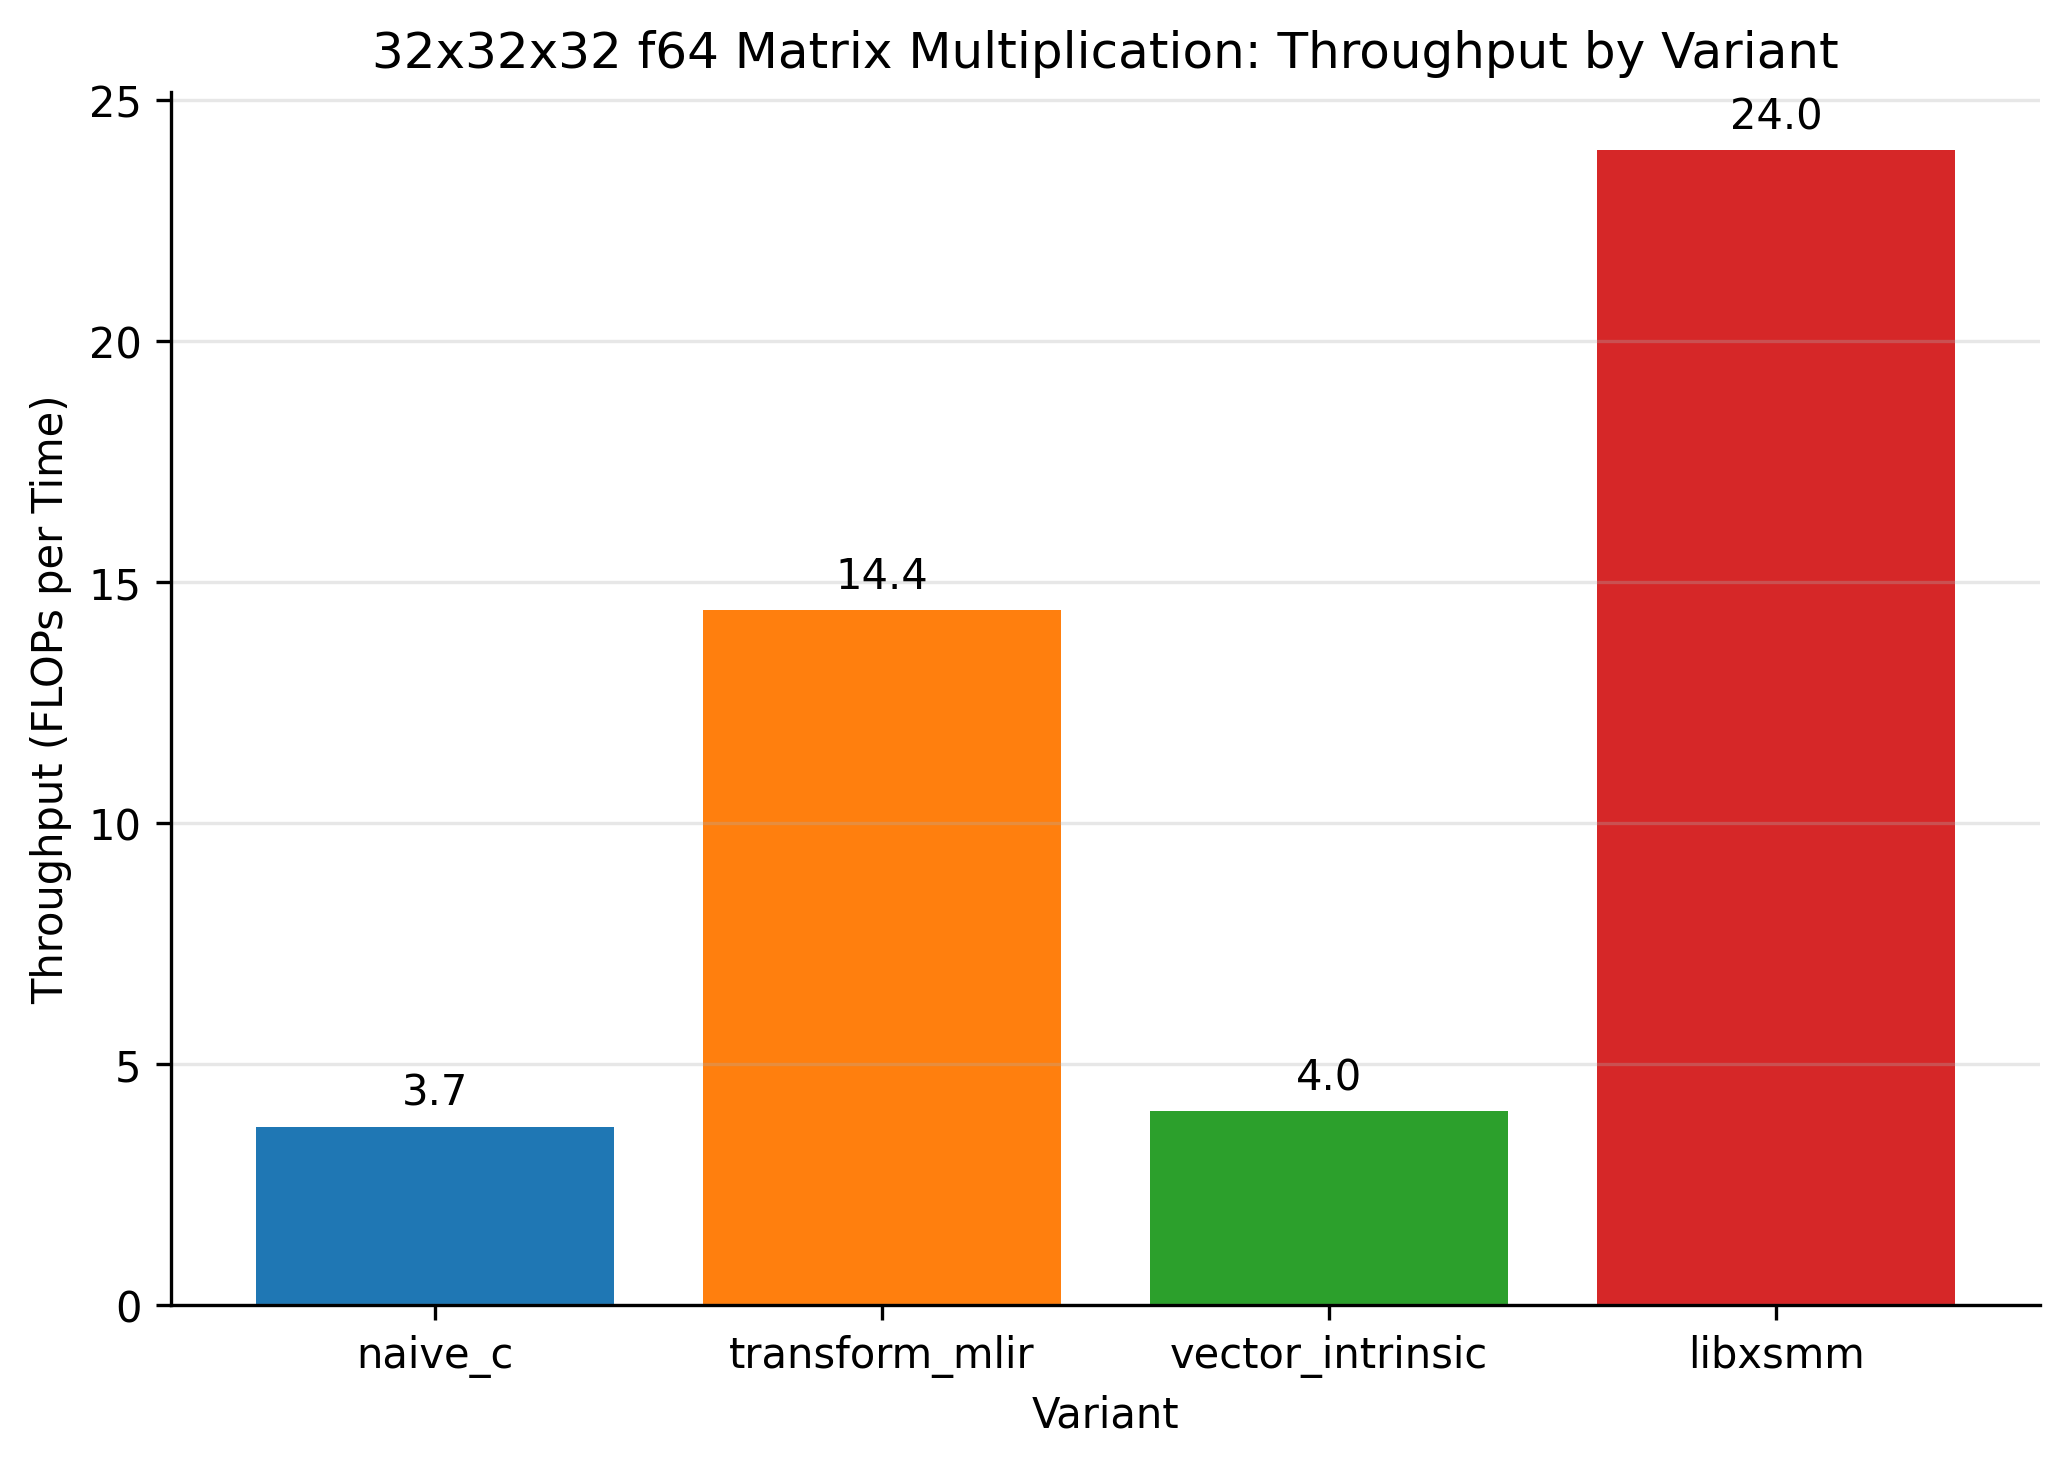
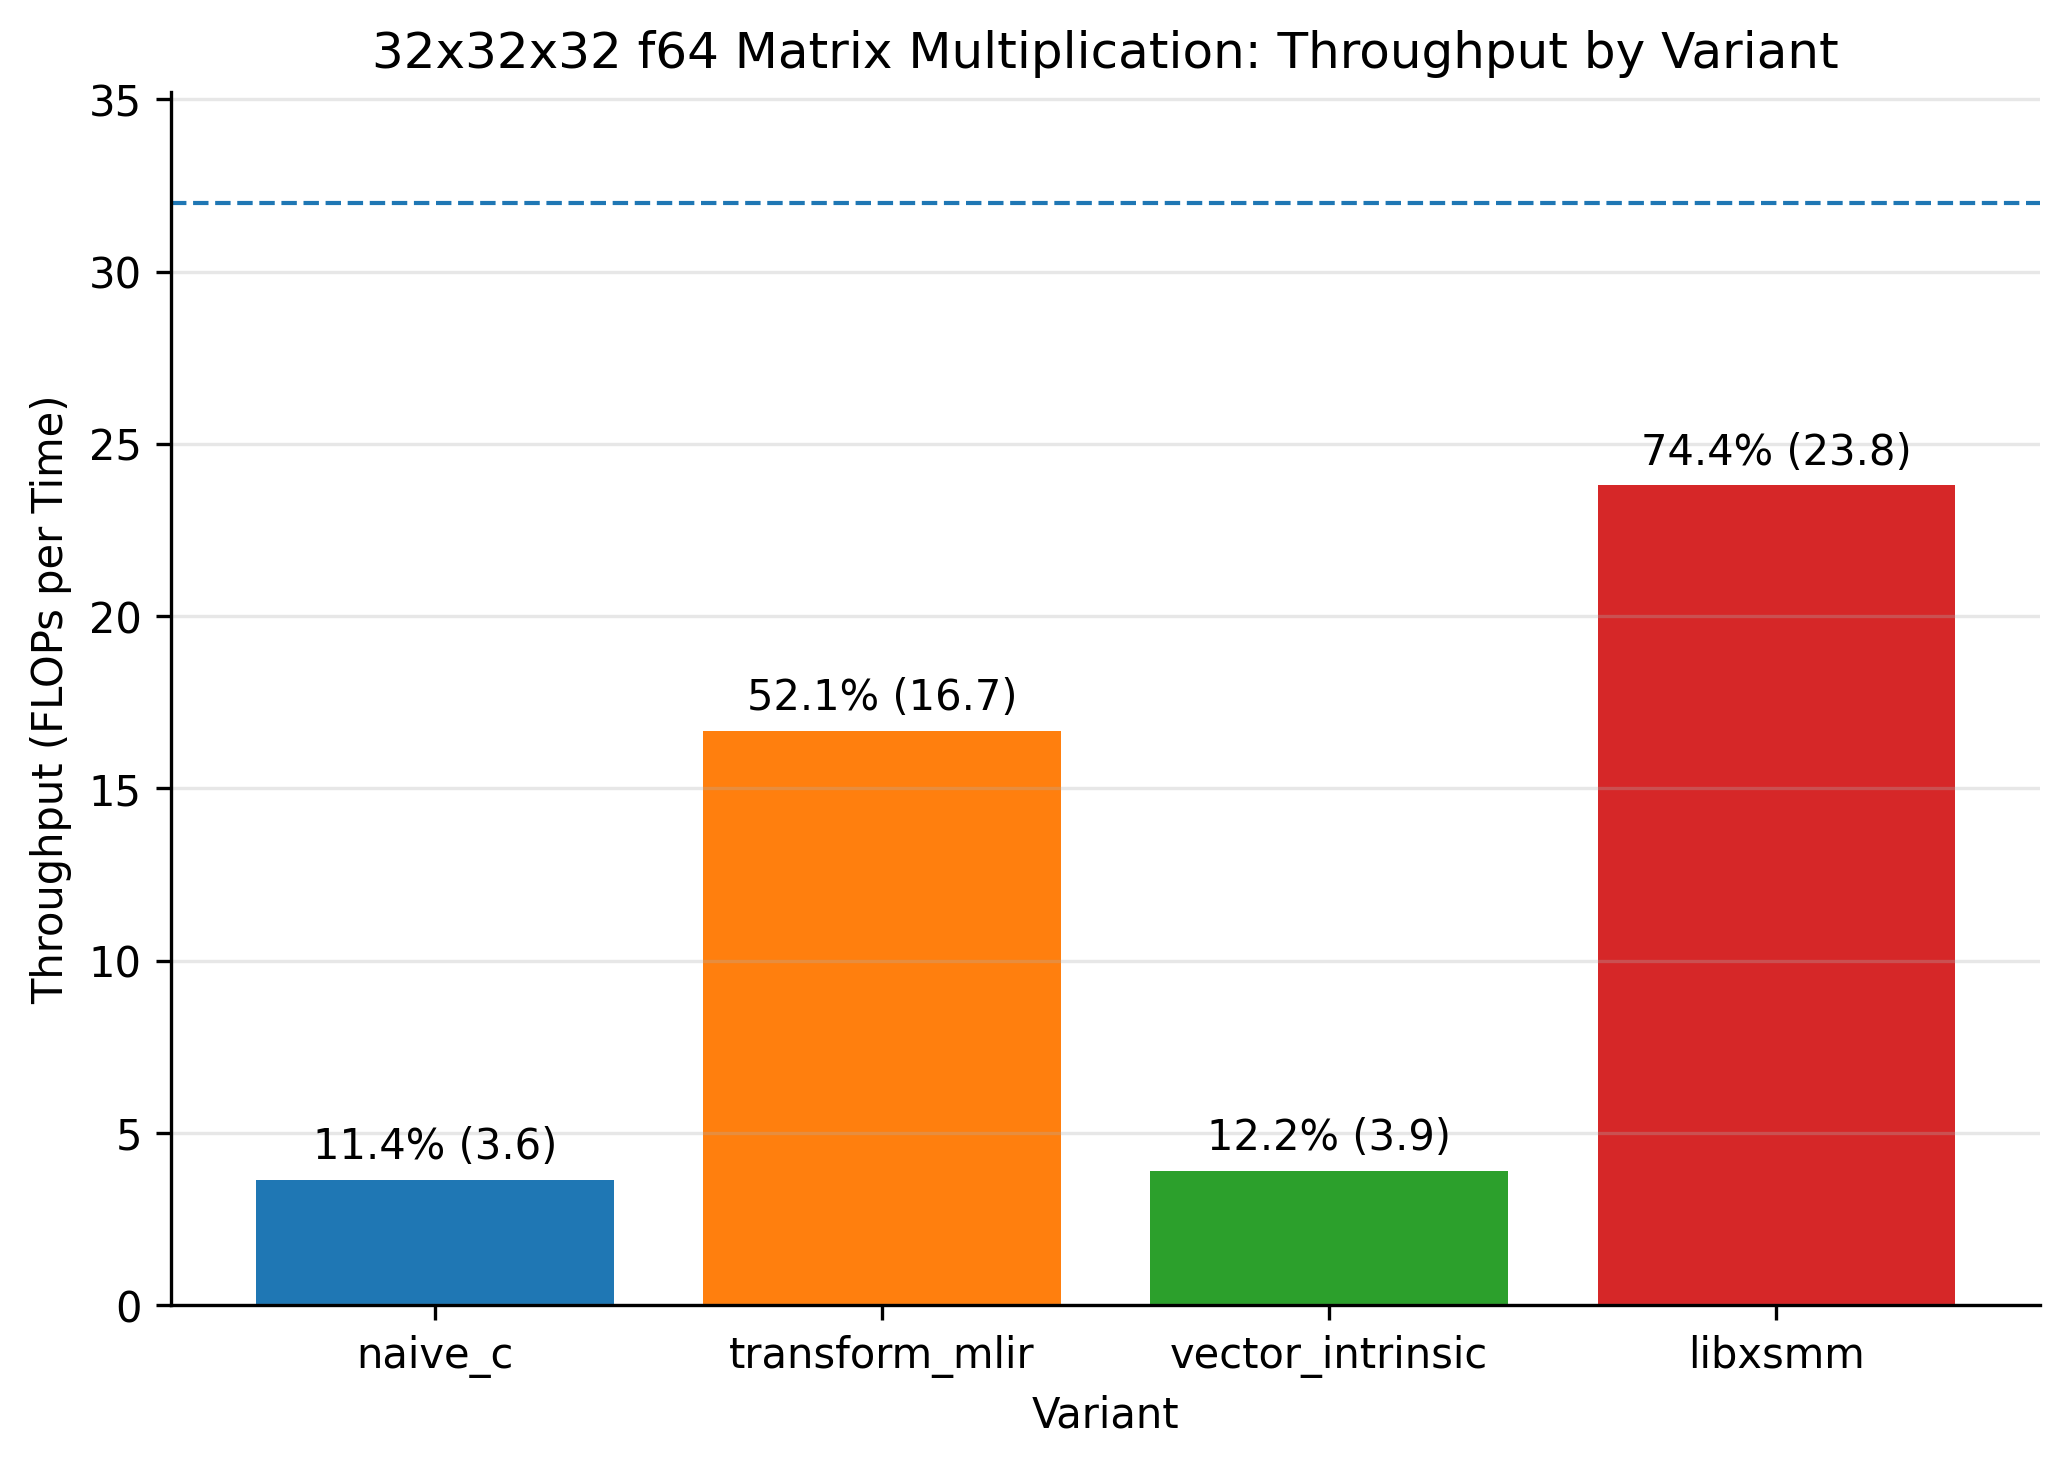
Draw the peak perf line (#132)
data load misses: `perf stat -e L1-dcache-loads,L1-dcache-load-misses
build/matmul_rowmaj/32x32x32/libxsmm.f64.pinocchio.simple.o`

diff --git a/src/autotuner/plot_cube.py b/src/autotuner/plot_cube.py
@@ -30,6 +30,17 @@ def plot_cube_bar_chart(df: pd.DataFrame, output_file: Path | None = None):
 
     # Bar chart: x = variant, y = throughput
     fig, ax = plt.subplots(figsize=(7, 5))
+
+    # Peak perf
+    peak = None
+    if "peak" in df.columns:
+        peaks = df["peak"].dropna().unique()
+        peak = float(peaks[0])
+        ax.axhline(peak, linestyle="--", linewidth=1, label="Peak perf (100%)")
+        ymax = float(valid_data["throughput"].max()) if len(valid_data) else 0.0
+        ymax = max(ymax, peak)
+        ax.set_ylim(0, ymax * 1.1 if ymax > 0 else 1)
+
     bars = ax.bar(
         valid_data["variant"],
         valid_data["throughput"],
@@ -38,8 +49,12 @@ def plot_cube_bar_chart(df: pd.DataFrame, output_file: Path | None = None):
 
     # Annotate bars with throughput values
     for bar, throughput in zip(bars, valid_data["throughput"]):
+        t = f"{throughput:.1f}"
+        if peak:
+            percent = (throughput / peak) * 100
+            t = f"{percent:.1f}% ({t})"
         ax.annotate(
-            f"{throughput:.1f}",
+            t,
             xy=(bar.get_x() + bar.get_width() / 2, bar.get_height()),
             xytext=(0, 3),
             textcoords="offset points",

diff --git a/kernels/matmul_rowmaj/simple.c b/kernels/matmul_rowmaj/simple.c
@@ -1,0 +1,44 @@
+#include <math.h>
+#include <stdbool.h>
+#include <stdio.h>
+#include <sys/utsname.h>
+#include <stdlib.h>
+#include <string.h>
+#include <time.h>
+#include <stdio.h>
+
+#include "../../headers/gendata.h"
+#include "../../headers/mnk.h"
+
+#define NUM_ITERATIONS 128
+
+extern void matmul(DTYPE A[M * K], DTYPE B[K * N], DTYPE C[M * N]);
+
+int main() {
+
+  DTYPE *A, *B, *C;
+  posix_memalign((void **)&A, 64, M * K * sizeof(DTYPE));
+  posix_memalign((void **)&B, 64, K * N * sizeof(DTYPE));
+  posix_memalign((void **)&C, 64, M * N * sizeof(DTYPE));
+  
+  set_random_seed(42);
+
+  fill_random_data(A, M * K);
+  fill_random_data(B, K * N);
+  for (int i = 0; i < NUM_ITERATIONS + 1; i++) {
+    fill_random_data(C, M * N);
+  }
+
+  // Warm up the cache with one iteration
+  matmul(A, B, C);
+  
+  for (int i = 0; i < NUM_ITERATIONS; i++) {
+    matmul(A, B, C);
+  }
+
+  free(A);
+  free(B);
+  free(C);
+  
+  return 0;
+}

diff --git a/kernels/matmul_rowmaj/time.c b/kernels/matmul_rowmaj/time.c
@@ -109,7 +109,7 @@ int main() {
   }
   else {
   clock_gettime(CLOCK_MONOTONIC, &ts_end);
-  elapsed = ts_end.tv_nsec - ts_start.tv_nsec;
+  elapsed = (ts_end.tv_nsec - ts_start.tv_nsec) * (double)FREQ;
   }
   
   double average_cycles = (double)elapsed / (double)NUM_ITERATIONS;
